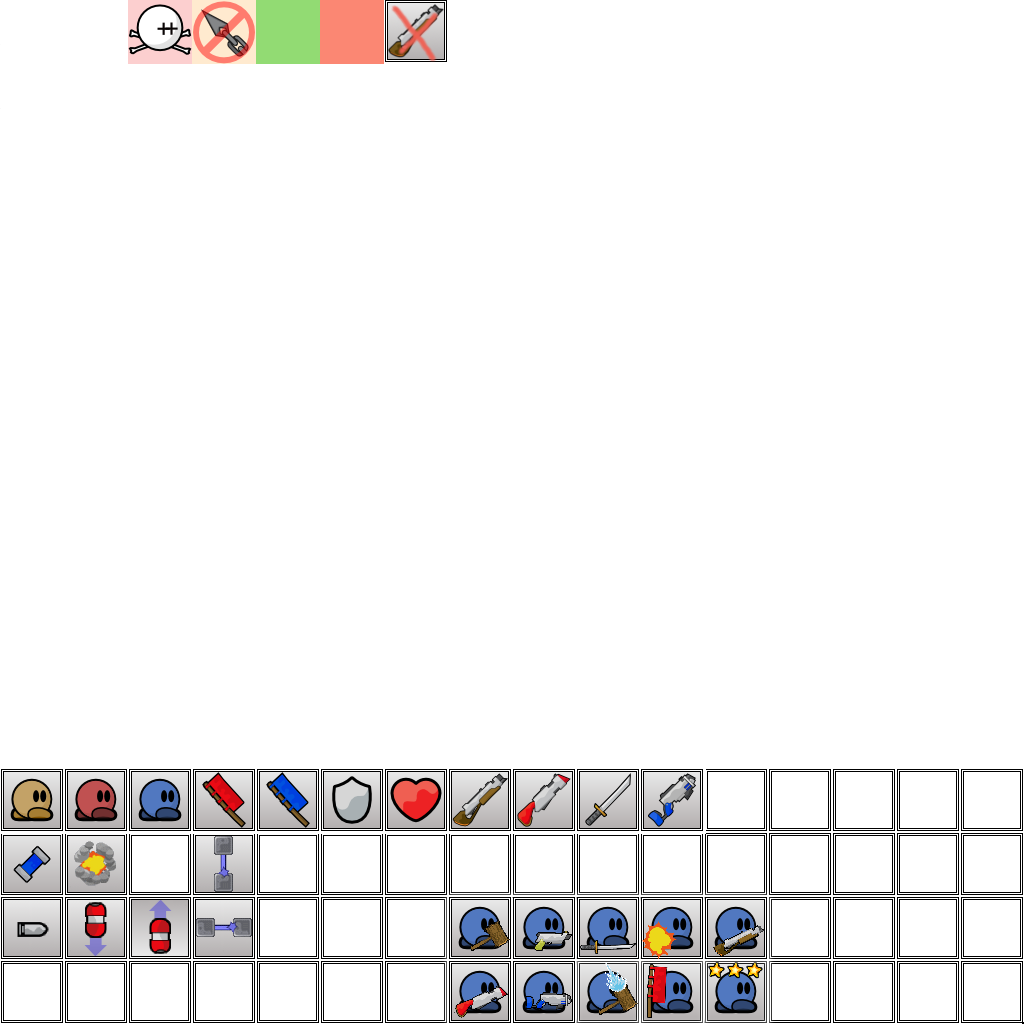
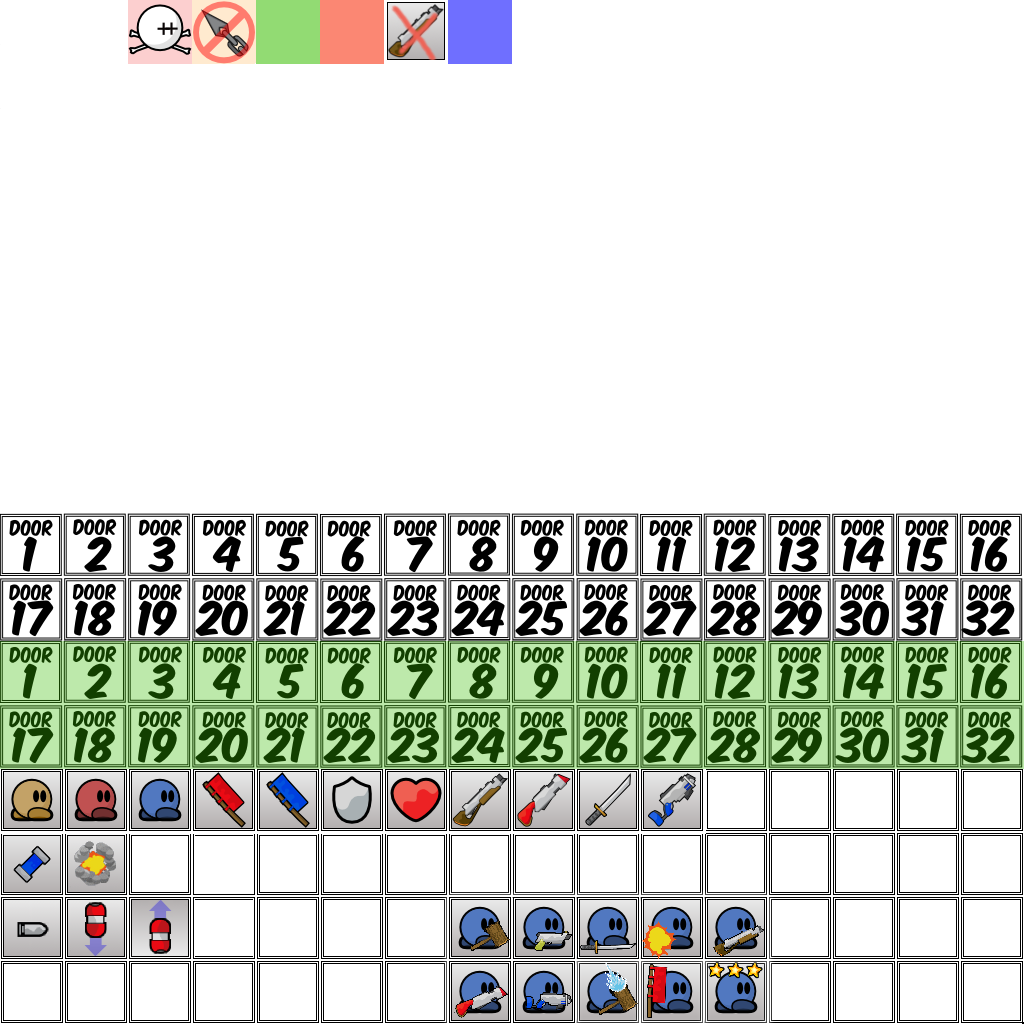
add 64 new entities: doors with corresponding triggers.

Changed region(s): [[0.0, 0.5, 1.0, 0.75], [0.1875, 0.8125, 0.25, 0.9375], [0.4375, 0.0, 0.5, 0.0625]]

diff --git a/src/game/mapitems.h b/src/game/mapitems.h
@@ -29,6 +29,74 @@ enum
 
 	// game layer tiles
 	ENTITY_NULL = 0,
+
+	ENTITY_DOOR_1,
+	ENTITY_DOOR_2,
+	ENTITY_DOOR_3,
+	ENTITY_DOOR_4,
+	ENTITY_DOOR_5,
+	ENTITY_DOOR_6,
+	ENTITY_DOOR_7,
+	ENTITY_DOOR_8,
+	ENTITY_DOOR_9,
+	ENTITY_DOOR_10,
+	ENTITY_DOOR_11,
+	ENTITY_DOOR_12,
+	ENTITY_DOOR_13,
+	ENTITY_DOOR_14,
+	ENTITY_DOOR_15,
+	ENTITY_DOOR_16,
+	ENTITY_DOOR_17,
+	ENTITY_DOOR_18,
+	ENTITY_DOOR_19,
+	ENTITY_DOOR_20,
+	ENTITY_DOOR_21,
+	ENTITY_DOOR_22,
+	ENTITY_DOOR_23,
+	ENTITY_DOOR_24,
+	ENTITY_DOOR_25,
+	ENTITY_DOOR_26,
+	ENTITY_DOOR_27,
+	ENTITY_DOOR_28,
+	ENTITY_DOOR_29,
+	ENTITY_DOOR_30,
+	ENTITY_DOOR_31,
+	ENTITY_DOOR_32,
+
+	ENTITY_TRIGGER_DOOR_1,
+	ENTITY_TRIGGER_DOOR_2,
+	ENTITY_TRIGGER_DOOR_3,
+	ENTITY_TRIGGER_DOOR_4,
+	ENTITY_TRIGGER_DOOR_5,
+	ENTITY_TRIGGER_DOOR_6,
+	ENTITY_TRIGGER_DOOR_7,
+	ENTITY_TRIGGER_DOOR_8,
+	ENTITY_TRIGGER_DOOR_9,
+	ENTITY_TRIGGER_DOOR_10,
+	ENTITY_TRIGGER_DOOR_11,
+	ENTITY_TRIGGER_DOOR_12,
+	ENTITY_TRIGGER_DOOR_13,
+	ENTITY_TRIGGER_DOOR_14,
+	ENTITY_TRIGGER_DOOR_15,
+	ENTITY_TRIGGER_DOOR_16,
+	ENTITY_TRIGGER_DOOR_17,
+	ENTITY_TRIGGER_DOOR_18,
+	ENTITY_TRIGGER_DOOR_19,
+	ENTITY_TRIGGER_DOOR_20,
+	ENTITY_TRIGGER_DOOR_21,
+	ENTITY_TRIGGER_DOOR_22,
+	ENTITY_TRIGGER_DOOR_23,
+	ENTITY_TRIGGER_DOOR_24,
+	ENTITY_TRIGGER_DOOR_25,
+	ENTITY_TRIGGER_DOOR_26,
+	ENTITY_TRIGGER_DOOR_27,
+	ENTITY_TRIGGER_DOOR_28,
+	ENTITY_TRIGGER_DOOR_29,
+	ENTITY_TRIGGER_DOOR_30,
+	ENTITY_TRIGGER_DOOR_31,
+	ENTITY_TRIGGER_DOOR_32,
+
+
 	ENTITY_SPAWN,
 	ENTITY_SPAWN_RED,
 	ENTITY_SPAWN_BLUE,
@@ -41,29 +109,26 @@ enum
 	ENTITY_POWERUP_NINJA,
 	ENTITY_WEAPON_RIFLE,
 
-	ENTITY_TURRET_LASER = 17,
-	ENTITY_TURRET_GUN = 33,
+	ENTITY_TURRET_LASER = 17 + 64,
+	ENTITY_TURRET_GUN = 33 + 64,
 
-	ENTITY_MINE = 18,
-	ENTITY_TRAP_DOWN = 34,
-	ENTITY_TRAP_UP = 35,
-		
-	ENTITY_DOOR_VERTICAL=20,
-	ENTITY_DOOR_HORIZONTAL=36,
-	
-	ENTITY_SPAWN_BOT_HAMMER = 40,
-	ENTITY_SPAWN_BOT_GUN = 41,
-	ENTITY_SPAWN_BOT_NINJA = 42,
-	ENTITY_SPAWN_BOT_KAMIKAZE = 43,
-	ENTITY_SPAWN_BOT_SHOTGUN = 44,
+	ENTITY_MINE = 18 + 64,
+	ENTITY_TRAP_DOWN = 34 + 64,
+	ENTITY_TRAP_UP = 35 + 64,
+			
+	ENTITY_SPAWN_BOT_HAMMER = 40 + 64,
+	ENTITY_SPAWN_BOT_GUN = 41 + 64,
+	ENTITY_SPAWN_BOT_NINJA = 42 + 64,
+	ENTITY_SPAWN_BOT_KAMIKAZE = 43 + 64, 
+	ENTITY_SPAWN_BOT_SHOTGUN = 44 + 64,
 
-	ENTITY_SPAWN_BOT_GRENADE = 56,
-	ENTITY_SPAWN_BOT_LASER = 57,
-	ENTITY_SPAWN_BOT_THOR = 58,
-	ENTITY_SPAWN_BOT_FLAGBEARER = 59,
-	ENTITY_SPAWN_BOT_ENDBOSS = 60,
+	ENTITY_SPAWN_BOT_GRENADE = 56 + 64,
+	ENTITY_SPAWN_BOT_LASER = 57 + 64,
+	ENTITY_SPAWN_BOT_THOR = 58 + 64,
+	ENTITY_SPAWN_BOT_FLAGBEARER = 59 +64,
+	ENTITY_SPAWN_BOT_ENDBOSS = 60 + 64,
 
-	NUM_ENTITIES=64,
+	NUM_ENTITIES=64 + 64,
 
 	TILE_AIR=0,
 	TILE_SOLID,
@@ -85,7 +150,7 @@ enum
 	LAYERFLAG_DETAIL=1,
 	TILESLAYERFLAG_GAME=1,
 
-	ENTITY_OFFSET=255-16*4,
+	ENTITY_OFFSET=255-16*4-16*4,
 };
 
 struct CPoint

diff --git a/src/game/server/gamemodes/timerun.cpp b/src/game/server/gamemodes/timerun.cpp
@@ -11,6 +11,7 @@
 #include <game/server/entities/flag.h>
 #include <game/server/entities/timebonusflag.h>
 #include <game/server/entities/doors/door.h>
+#include <game/server/entities/doors/doortrigger.h>
 #include <game/server/entities/pickup.h>
 #include <game/server/entities/bots/bossbot.h>
 #include <game/server/entities/spawns/hammerbotspawn.h>
@@ -89,16 +90,17 @@ bool CGameControllerTimeRun::OnEntity(int Index, vec2 Pos) {
 		CTimeBonusFlag* flagBlue = new CTimeBonusFlag(&GameServer()->m_World, Pos);
 		return true;
 	}
-
-	case ENTITY_DOOR_VERTICAL: {
-		CDoor *pDoor = new CDoor(&GameServer()->m_World, Index);
-		pDoor->m_Pos = Pos;
+	}
+	if (Index >= ENTITY_DOOR_1 && Index <= ENTITY_DOOR_32) {
+		CDoor *pDoor = new CDoor(&GameServer()->m_World, Pos, Index);
+		return true;
+	}
+	else if (Index >= ENTITY_TRIGGER_DOOR_1 && Index <= ENTITY_TRIGGER_DOOR_32) {
+		CDoorTrigger *pTrigger = new CDoorTrigger(&GameServer()->m_World, Pos, Index - ENTITY_DOOR_32);
 		return true;
 	}
 
-	default:
-		return false;
-	}
+	return false;
 }
 
 void CGameControllerTimeRun::StartRound() {

diff --git a/src/game/server/entities/character.cpp b/src/game/server/entities/character.cpp
@@ -778,8 +778,9 @@ void CCharacter::OnOverlapDoorTrigger() {
 	if (doorEntity) {
 		CDoor* door = (CDoor*)doorEntity;
 		int index = door->GetIndex();
-		if (GameServer()->TimeRunController()->GetDoorState(index) == DOOR_CLOSED)
+		if (GameServer()->TimeRunController()->GetDoorState(index) == DOOR_CLOSED) {
 			GameServer()->TimeRunController()->SetDoorState(index, DOOR_OPEN);
+		}
 	}
 }
 

diff --git a/src/game/server/entities/doors/door.cpp b/src/game/server/entities/doors/door.cpp
@@ -1,8 +1,9 @@
 #include <game/server/gamecontext.h>
 #include "door.h"
 
-CDoor::CDoor(CGameWorld *pGameWorld, int Index) : CEntity(pGameWorld, CGameWorld::ENTTYPE_DOOR) {
+CDoor::CDoor(CGameWorld *pGameWorld, vec2 Pos, int Index) : CEntity(pGameWorld, CGameWorld::ENTTYPE_DOOR) {
 	m_Index = Index;
+	m_Pos = Pos;
 	m_State = DOOR_CLOSED;
 	GameWorld()->InsertEntity(this);
 }

diff --git a/src/game/server/entities/doors/door.h b/src/game/server/entities/doors/door.h
@@ -11,7 +11,7 @@ enum {
 class CDoor : public CEntity {
 
 public:
-	CDoor(CGameWorld *pGameWorld, int Index);
+	CDoor(CGameWorld *pGameWorld, vec2 Pos, int Index);
 
 	virtual void Reset();
 	virtual void Tick();

diff --git a/src/game/collision.cpp b/src/game/collision.cpp
@@ -31,7 +31,7 @@ void CCollision::Init(class CLayers *pLayers)
 	{
 		int Index = m_pTiles[i].m_Index;
 
-		if(Index > 128)
+		if(Index > 64)
 			continue;
 
 		switch(Index)
